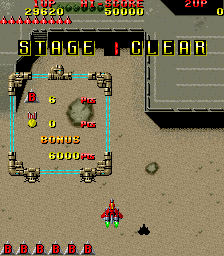
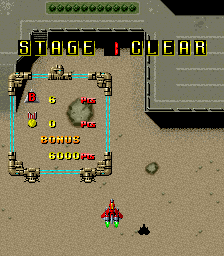
Fixed bug show UI StageCompleted

diff --git a/Raiden Game/ModuleStageCompleted.cpp b/Raiden Game/ModuleStageCompleted.cpp
@@ -35,6 +35,8 @@ bool ModuleStageCompleted::Start()
 	App->level1->Disable();
 	App->level2->Disable();
 	App->intro->Disable();
+	//App->player->Enable();
+
 	
 
 
@@ -51,6 +53,8 @@ bool ModuleStageCompleted::Start()
 
 	graphics = App->textures->Load("Assets/Images/End_Stage_01.png");
 
+	
+
 	return true;
 }
 
@@ -60,7 +64,7 @@ bool ModuleStageCompleted::CleanUp()
 	LOG("Unloading Stage Cleared");
 	App->audio->Disable();
 	App->textures->Unload(graphics);
-
+	
 	return true;
 }
 
@@ -68,17 +72,16 @@ bool ModuleStageCompleted::CleanUp()
 update_status ModuleStageCompleted::Update()
 {
 
-	sprintf_s(App->player->score_text, 10, "%7d", App->player->score);
-	sprintf_s(App->player->high_score_text, 10, "%7d", App->player->high_score);
+	
 
-	App->fonts->BlitText(0, 1, App->player->red_font_score, App->player->user_interface);
-	App->fonts->BlitText(0, 9, App->player->yellow_font_score, App->player->score_text);
-	App->fonts->BlitText(88, 9, App->player->yellow_font_score, App->player->high_score_text);
+	
 
 	// Draw everything --------------------------------------
 	App->render->Blit(graphics, 0, 0, &background);
 
-
+	App->fonts->BlitText(0, 1, App->player->red_font_score, App->player->user_interface);//NOT WORKING
+	App->fonts->BlitText(0, 9, App->player->yellow_font_score, App->player->score_text);
+	App->fonts->BlitText(88, 9, App->player->yellow_font_score, App->player->high_score_text);
 
 	if (App->input->keyboard[SDL_SCANCODE_TAB] && App->fade->IsFading()==false) {
 

diff --git a/Raiden Game/GreenShooterSpaceship.cpp b/Raiden Game/GreenShooterSpaceship.cpp
@@ -36,24 +36,9 @@ GreenShooter_Spaceship::GreenShooter_Spaceship(int x, int y, int count) : Enemy(
 	explosion.anim.PushBack({ 308, 534, 77, 68 });
 	explosion.anim.PushBack({ 385, 534, 77, 68 });	
 	explosion.anim.PushBack({ 0,0,0,0 });
-	explosion.anim.speed = 0.3f;
+	explosion.anim.speed = 0.2f;
 
-	/*{( 0, 466, 77, 68)}
-{( 77, 466, 77, 68)}
-{( 154, 466, 77, 68)}
-{( 231, 466, 77, 68)}
-{( 308, 466, 77, 68)}
-{( 385, 466, 77, 68)}
-{( 462, 466, 77, 68)}
-{( 539, 466, 77, 68)}
-{( 616, 466, 77, 68)}
-{( 0, 534, 77, 68)}
-{( 77, 534, 77, 68)}
-{( 154, 534, 77, 68)}
-{( 231, 534, 77, 68)}
-{( 308, 534, 77, 68)}
-{( 385, 534, 77, 68)}*/
-
+	
 
 	explosion.life = 6000;
 	explosion.anim.loop = false;

diff --git a/Raiden Game/ModuleLevel2.cpp b/Raiden Game/ModuleLevel2.cpp
@@ -9,6 +9,7 @@
 #include "ModuleFadeToBlack.h"
 #include "ModuleIntro.h"
 #include "ModuleAudio.h"
+#include "ModuleEnemies.h"
 
 
 // Reference at https://youtu.be/6OlenbCC4WI?t=382
@@ -29,6 +30,8 @@ ModuleLevel2::~ModuleLevel2()
 // Load assets
 bool ModuleLevel2::Start()
 {
+	App->enemies->Enable();
+	
 	App->render->camera.x = 0; //initial pos
 	App->render->camera.y = 0;
 
@@ -39,7 +42,7 @@ bool ModuleLevel2::Start()
 
 	
 	
-	App->player->Enable();
+	
 	//music_lvl2 = App->audio->Load_Music("Assets/Audio/00_Raiden.ogg");// UNCOMMENT FOR PLAYING MUSIC
 	if (!music_lvl2) {
 		LOG("Error loading lvl1 music: %s", Mix_GetError)

diff --git a/Raiden Game/ModulePlayer.cpp b/Raiden Game/ModulePlayer.cpp
@@ -29,14 +29,14 @@ ModulePlayer::ModulePlayer()
 	right.PushBack({ 114, 14, 20, 27 });
 	right.PushBack({ 149, 14, 15, 27 });
 	right.loop = false;
-	right.speed = 0.1f;
+	right.speed = 0.05f;
 
 	//move animation left
 	
 	left.PushBack({ 51, 14, 20, 27 });
 	left.PushBack({ 22, 14, 15, 27 });
 	left.loop = false;
-	left.speed = 0.1f;
+	left.speed = 0.05f;
 
 	//Raiden basic shot 
 	

diff --git a/Raiden Game/BonusSpaceship.cpp b/Raiden Game/BonusSpaceship.cpp
@@ -29,7 +29,7 @@ Bonus_Spaceship::Bonus_Spaceship (int x, int y, int count) : Enemy(x, y)
 	explosion.anim.PushBack({ 308, 534, 77, 68 });
 	explosion.anim.PushBack({ 385, 534, 77, 68 });
 	explosion.anim.PushBack({ 0,0,0,0 });
-	explosion.anim.speed = 0.3f;
+	explosion.anim.speed = 0.2f;
 
 	//Bonus Spaceship shot
 	color_rotatory_shot.anim.PushBack({ 22, 40, 6, 7 });	

diff --git a/Raiden Game/ModuleLevel1.cpp b/Raiden Game/ModuleLevel1.cpp
@@ -106,11 +106,12 @@ bool ModuleLevel1::CleanUp()
 
 	App->textures->Unload(graphics);
 
-	
+	App->player->Disable();
 	App->player2->Disable();
 	App->enemies->Disable();
 	App->collision->Disable();
-	
+	App->powerup->Disable();
+	App->particles->Disable();
 
 	return true;
 }

diff --git a/Raiden Game/Application.cpp b/Raiden Game/Application.cpp
@@ -51,7 +51,7 @@ bool Application::Init()
 	bool ret = true;
 
 	// Deactivate modules here ----
-	player->Disable();
+	//player->Disable();
 	level2->Disable();
 	level1->Disable();
 	stageCompleted->Disable();
